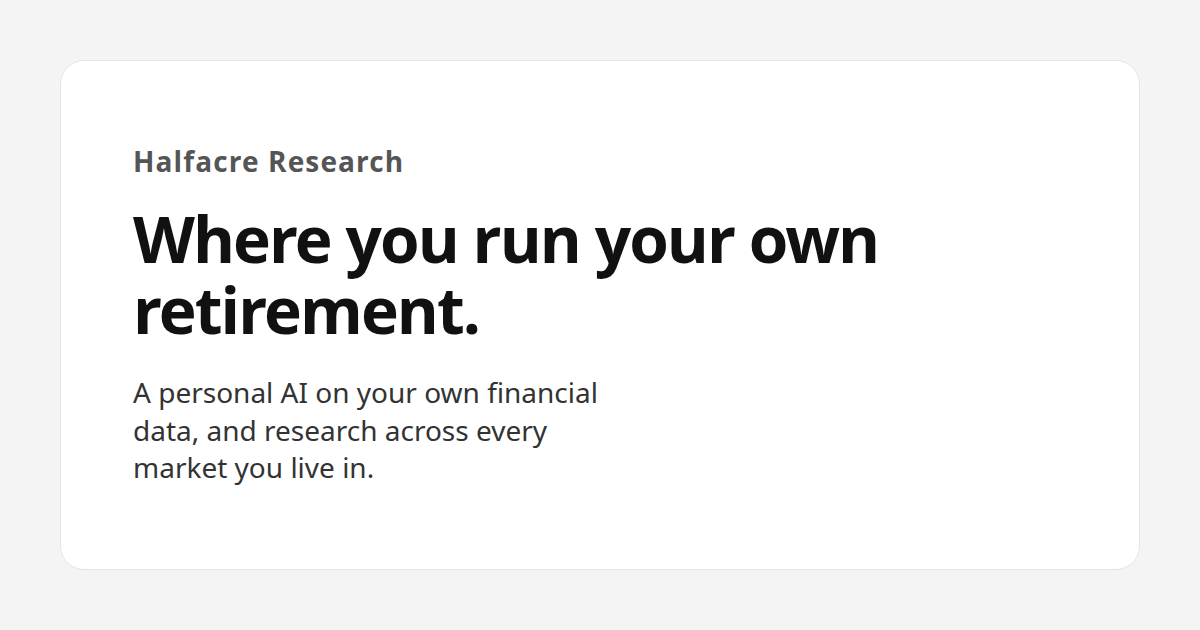
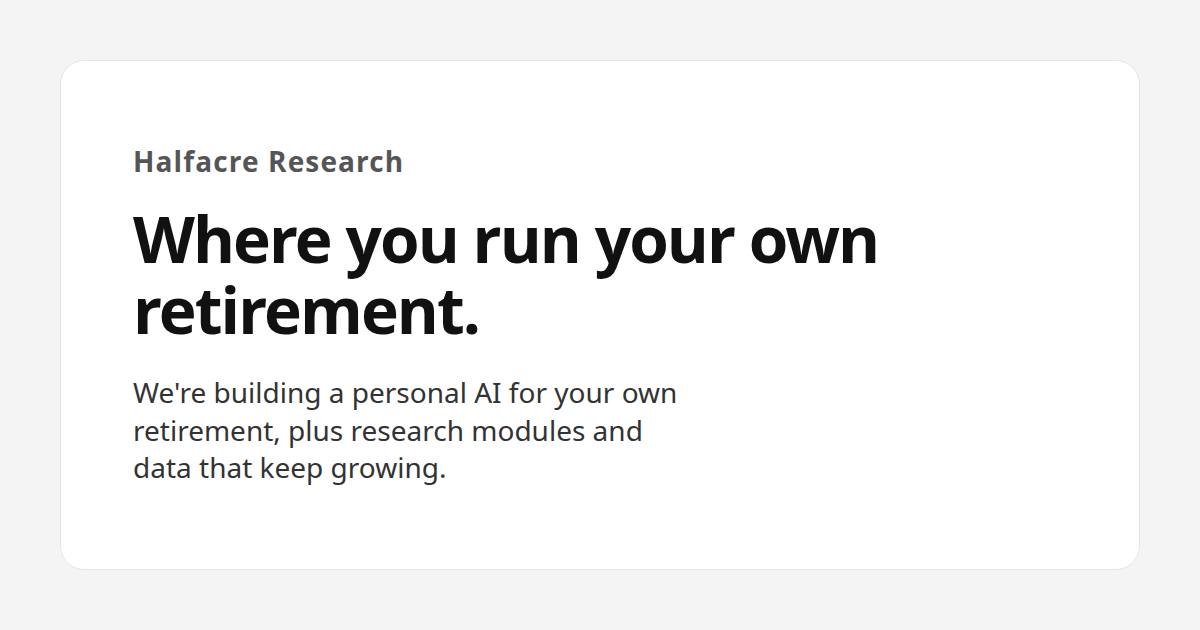
Harden homepage copy: titles, vision-only markets, emailed private links
Set title/og/twitter to the exact slogan title. Drop live-market claims
and same-email login wording. Existing clients are pointed at signup
for an emailed private link. Reserve unlinked Privacy/Terms/Refunds.

Changed region(s): [[0.0925, 0.6032, 0.555, 0.7841]]

diff --git a/index.html b/index.html
@@ -3,21 +3,21 @@
 <head>
   <meta charset="utf-8">
   <meta name="viewport" content="width=device-width, initial-scale=1">
-  <title>Halfacre Research</title>
-  <meta name="description" content="Where you run your own retirement. A personal AI on your own financial data, and research across every market you live in. Research and data, not advice.">
+  <title>Halfacre Research | Where you run your own retirement</title>
+  <meta name="description" content="Where you run your own retirement. We're building a personal AI for your own retirement, plus research modules and data that keep growing. Research and data, not advice.">
   <link rel="canonical" href="https://halfacreresearch.tech/">
   <meta property="og:type" content="website">
   <meta property="og:site_name" content="Halfacre Research">
-  <meta property="og:title" content="Halfacre Research">
-  <meta property="og:description" content="Where you run your own retirement. A personal AI on your own financial data, and research across every market you live in.">
+  <meta property="og:title" content="Halfacre Research | Where you run your own retirement">
+  <meta property="og:description" content="Where you run your own retirement. We're building a personal AI for your own retirement, plus research modules and data that keep growing.">
   <meta property="og:url" content="https://halfacreresearch.tech/">
   <meta property="og:image" content="https://halfacreresearch.tech/og-home.png">
   <meta property="og:image:width" content="1200">
   <meta property="og:image:height" content="630">
   <meta property="og:image:alt" content="Halfacre Research. Where you run your own retirement.">
   <meta name="twitter:card" content="summary_large_image">
-  <meta name="twitter:title" content="Halfacre Research">
-  <meta name="twitter:description" content="Where you run your own retirement. A personal AI on your own financial data, and research across every market you live in.">
+  <meta name="twitter:title" content="Halfacre Research | Where you run your own retirement">
+  <meta name="twitter:description" content="Where you run your own retirement. We're building a personal AI for your own retirement, plus research modules and data that keep growing.">
   <meta name="twitter:image" content="https://halfacreresearch.tech/og-home.png">
   <meta name="twitter:image:alt" content="Halfacre Research. Where you run your own retirement.">
   <style>
@@ -152,13 +152,6 @@
       line-height: 1.3;
     }
     .btn:hover { background: #000; }
-    .btn.ghost {
-      background: #fff;
-      color: #111;
-      border: 1px solid #d0d0d0;
-    }
-    .btn.ghost:hover { border-color: #111; }
-    .btn.hidden { display: none; }
     main.wrap { padding: 8px 20px 8px; }
     section {
       margin: 0 0 28px;
@@ -175,21 +168,6 @@
       letter-spacing: -0.02em;
     }
     section p { margin: 0 0 1em; color: #222; }
-    .markets {
-      margin: 0 0 1.1em;
-      padding: 0;
-      list-style: none;
-      display: flex;
-      flex-wrap: wrap;
-      gap: 8px;
-    }
-    .markets li {
-      background: #f4f4f5;
-      border-radius: 999px;
-      padding: 6px 11px;
-      font-size: 13px;
-      color: #333;
-    }
     .fine {
       margin: 0 0 1.1em;
       color: #555;
@@ -204,6 +182,10 @@
     }
     footer p { margin: 0 0 6px; }
     footer .legal { margin-top: 14px; color: #666; }
+    footer .policies {
+      margin-top: 14px;
+      color: #888;
+    }
     @media (min-width: 720px) {
       .hero { padding-top: 40px; }
       section { padding: 26px 28px 10px; }
@@ -221,14 +203,13 @@
   <div class="hero">
     <div class="wrap">
       <h1>Where you run your own retirement.</h1>
-      <p class="promise">A personal AI on your own financial data, and research across every market you live in.</p>
+      <p class="promise">We're building a personal AI for your own retirement, plus research modules and data that keep growing.</p>
 
       <!-- VIDEO URL: set data-video-url to one YouTube, Vimeo, or .mp4 URL. Leave empty for the poster. -->
       <div id="hero-video" class="video-frame" data-video-url="" role="img" aria-label="Video coming soon"></div>
 
       <div class="cta-row">
-        <a class="btn" id="start" href="/signup.html">Create an account or open your page</a>
-        <a class="btn ghost hidden" id="open-page" href="/page.html">Open my page</a>
+        <a class="btn" id="start" href="/signup.html">Create an account</a>
       </div>
     </div>
   </div>
@@ -236,31 +217,20 @@
   <main class="wrap">
     <section>
       <h2>A new way for the next generation to retire</h2>
-      <p>Retirement used to mean handing the keys to someone else. Halfacre is for people who want to keep the keys: a page of your own, a personal AI that works from the numbers you upload, and research you can actually sit with.</p>
-      <p>We’re finishing a brand-new site and product line. It isn’t open to the public yet.</p>
+      <p>Retirement used to mean handing the keys to someone else. We're building a page of your own and a personal AI that works from the financial data you upload — so you can run your own retirement.</p>
+      <p>We're finishing a brand-new site and product line. It isn't open to the public yet.</p>
     </section>
 
     <section>
-      <h2>Research and data across every market</h2>
-      <p>One desk for the markets people actually live in — not a single-asset shop, and not a pitch for any one trade.</p>
-      <ul class="markets">
-        <li>Stocks</li>
-        <li>Dividends</li>
-        <li>ETFs</li>
-        <li>Mutual funds</li>
-        <li>Metals</li>
-        <li>Commodities</li>
-        <li>Crypto</li>
-        <li>Macro</li>
-        <li>IRA rules</li>
-      </ul>
-      <p>This is research and data. You decide what to do with it.</p>
+      <h2>What we're building</h2>
+      <p>A personal AI for your own retirement. Research modules you can sit with. Data that keeps growing.</p>
+      <p>That work is underway. No research product is licensed for resale and live today. More is coming soon.</p>
     </section>
 
     <section>
-      <h2>Create an account, or open the page you already have</h2>
-      <p>If you already have a page with us, use the same name, email, and phone you used when you created your account. That same button opens your page. If you’re new, it starts your free account. After you finish, Grok meets you on your page.</p>
-      <p>There is no password login. The same button opens your page if you use the same email.</p>
+      <h2>Create an account</h2>
+      <p>If you're new, the button starts your account. After you finish, Grok meets you on your page.</p>
+      <p>Already a client? Enter your email on the <a href="/signup.html">signup page</a> and we'll email your private link.</p>
       <p class="fine">Questions: <a href="mailto:matt@halfacreresearch.tech">matt@halfacreresearch.tech</a></p>
     </section>
   </main>
@@ -269,6 +239,8 @@
     <p>© Halfacre Research Institute LLC</p>
     <p>Where you run your own retirement.</p>
     <p><a href="mailto:matt@halfacreresearch.tech">matt@halfacreresearch.tech</a></p>
+    <!-- TODO: add Privacy, Terms, and Refunds links when those pages exist. Do not link pages that are not on the site. -->
+    <p class="policies">Privacy · Terms · Refunds</p>
     <p class="legal">This is research and data, not investment, tax, legal, or retirement advice. <a href="/disclaimer.html">Read the full disclaimer</a>.</p>
   </footer>
 
@@ -341,21 +313,8 @@
         }
       }
 
-      function maybeOpenExistingPage() {
-        var open = document.getElementById("open-page");
-        if (!open) return;
-        try {
-          var session = JSON.parse(localStorage.getItem("halfacre.session") || "null");
-          var id = session && session.id ? String(session.id) : "";
-          if (!id) return;
-          open.href = "/page.html?c=" + encodeURIComponent(id);
-          open.classList.remove("hidden");
-        } catch (e) {}
-      }
-
       mountVideo(document.getElementById("hero-video"));
       passUtmToSignupLinks();
-      maybeOpenExistingPage();
     })();
   </script>
 </body>

diff --git a/README.md b/README.md
@@ -2,7 +2,7 @@
 
 Public static website for Halfacre Research.
 
-The public homepage at `/` is the launch landing page. Create an account or reopen an existing page at `/signup.html` with name, email, and phone — there is no Google button and no password login. After create, the client lands on `/page.html?c=`, where Grok is the coach.
+The public homepage at `/` is the launch landing page. New visitors create an account at `/signup.html` with name, email, and phone — there is no Google button. Existing clients enter their email on that page and are emailed a private link. After create, Grok meets them on their page.
 
 `van-grok.secret.php` and `clients.store.json` stay on Hostinger only. Do not commit them.
 
